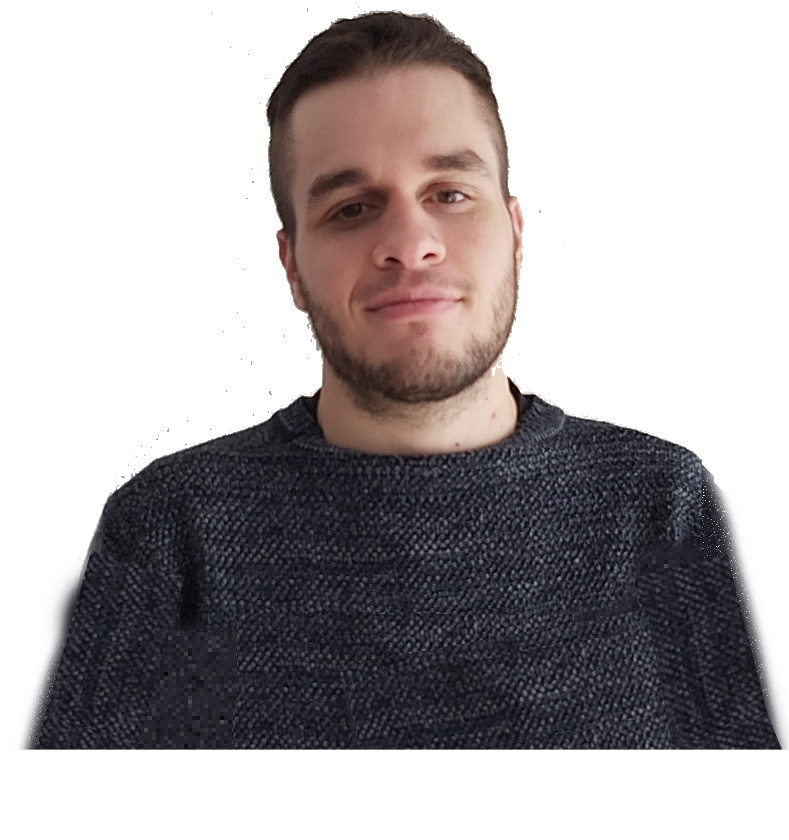
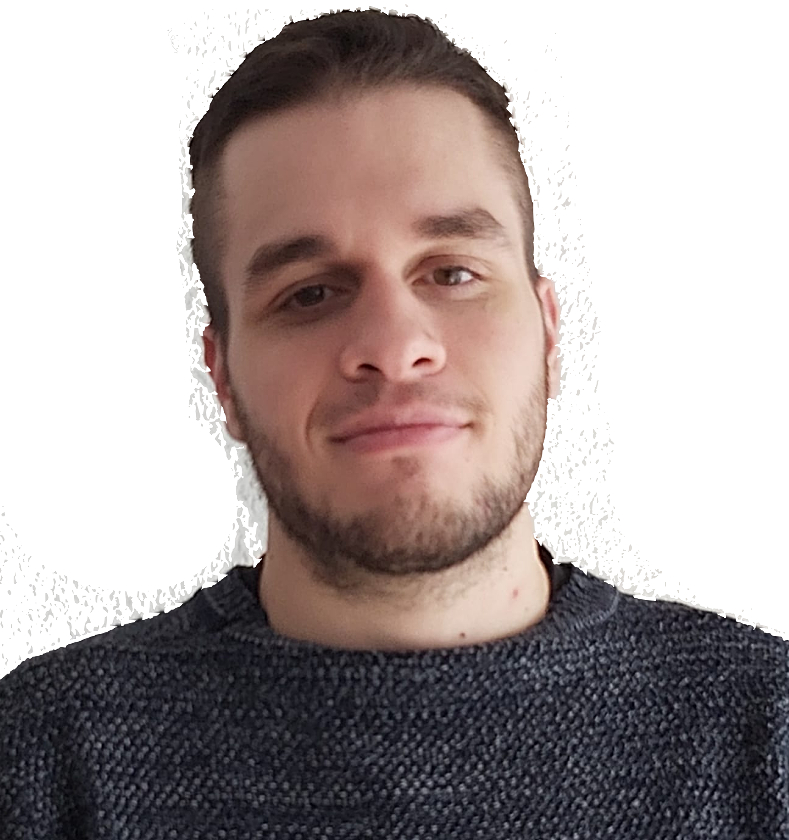
New: Fran photo

diff --git a/css/styles.css b/css/styles.css
@@ -1,4 +1,4 @@
-@import url(http://fonts.googleapis.com/css?family=Raleway:400,700,500);
+@import url(https://fonts.googleapis.com/css?family=Raleway:400,700,500);
 
 /*
 Author: webthemez.com
